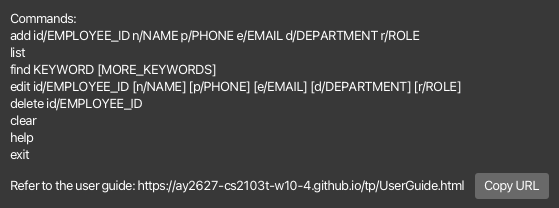
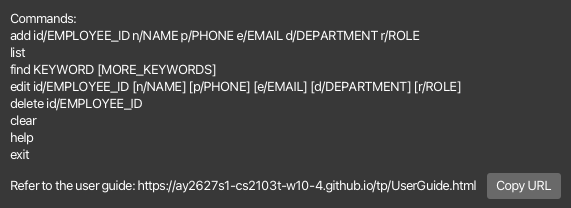
Fix user guide URL in help window
The GitHub Pages URL was missing the semester (s1) and returned 404.

diff --git a/src/main/java/seedu/address/ui/HelpWindow.java b/src/main/java/seedu/address/ui/HelpWindow.java
@@ -16,7 +16,7 @@ import seedu.address.logic.commands.HelpCommand;
  */
 public class HelpWindow extends UiPart<Stage> {
 
-    public static final String USERGUIDE_URL = "https://ay2627-cs2103t-w10-4.github.io/tp/UserGuide.html";
+    public static final String USERGUIDE_URL = "https://ay2627s1-cs2103t-w10-4.github.io/tp/UserGuide.html";
     public static final String HELP_MESSAGE = "Refer to the user guide: " + USERGUIDE_URL;
 
     private static final Logger logger = LogsCenter.getLogger(HelpWindow.class);
